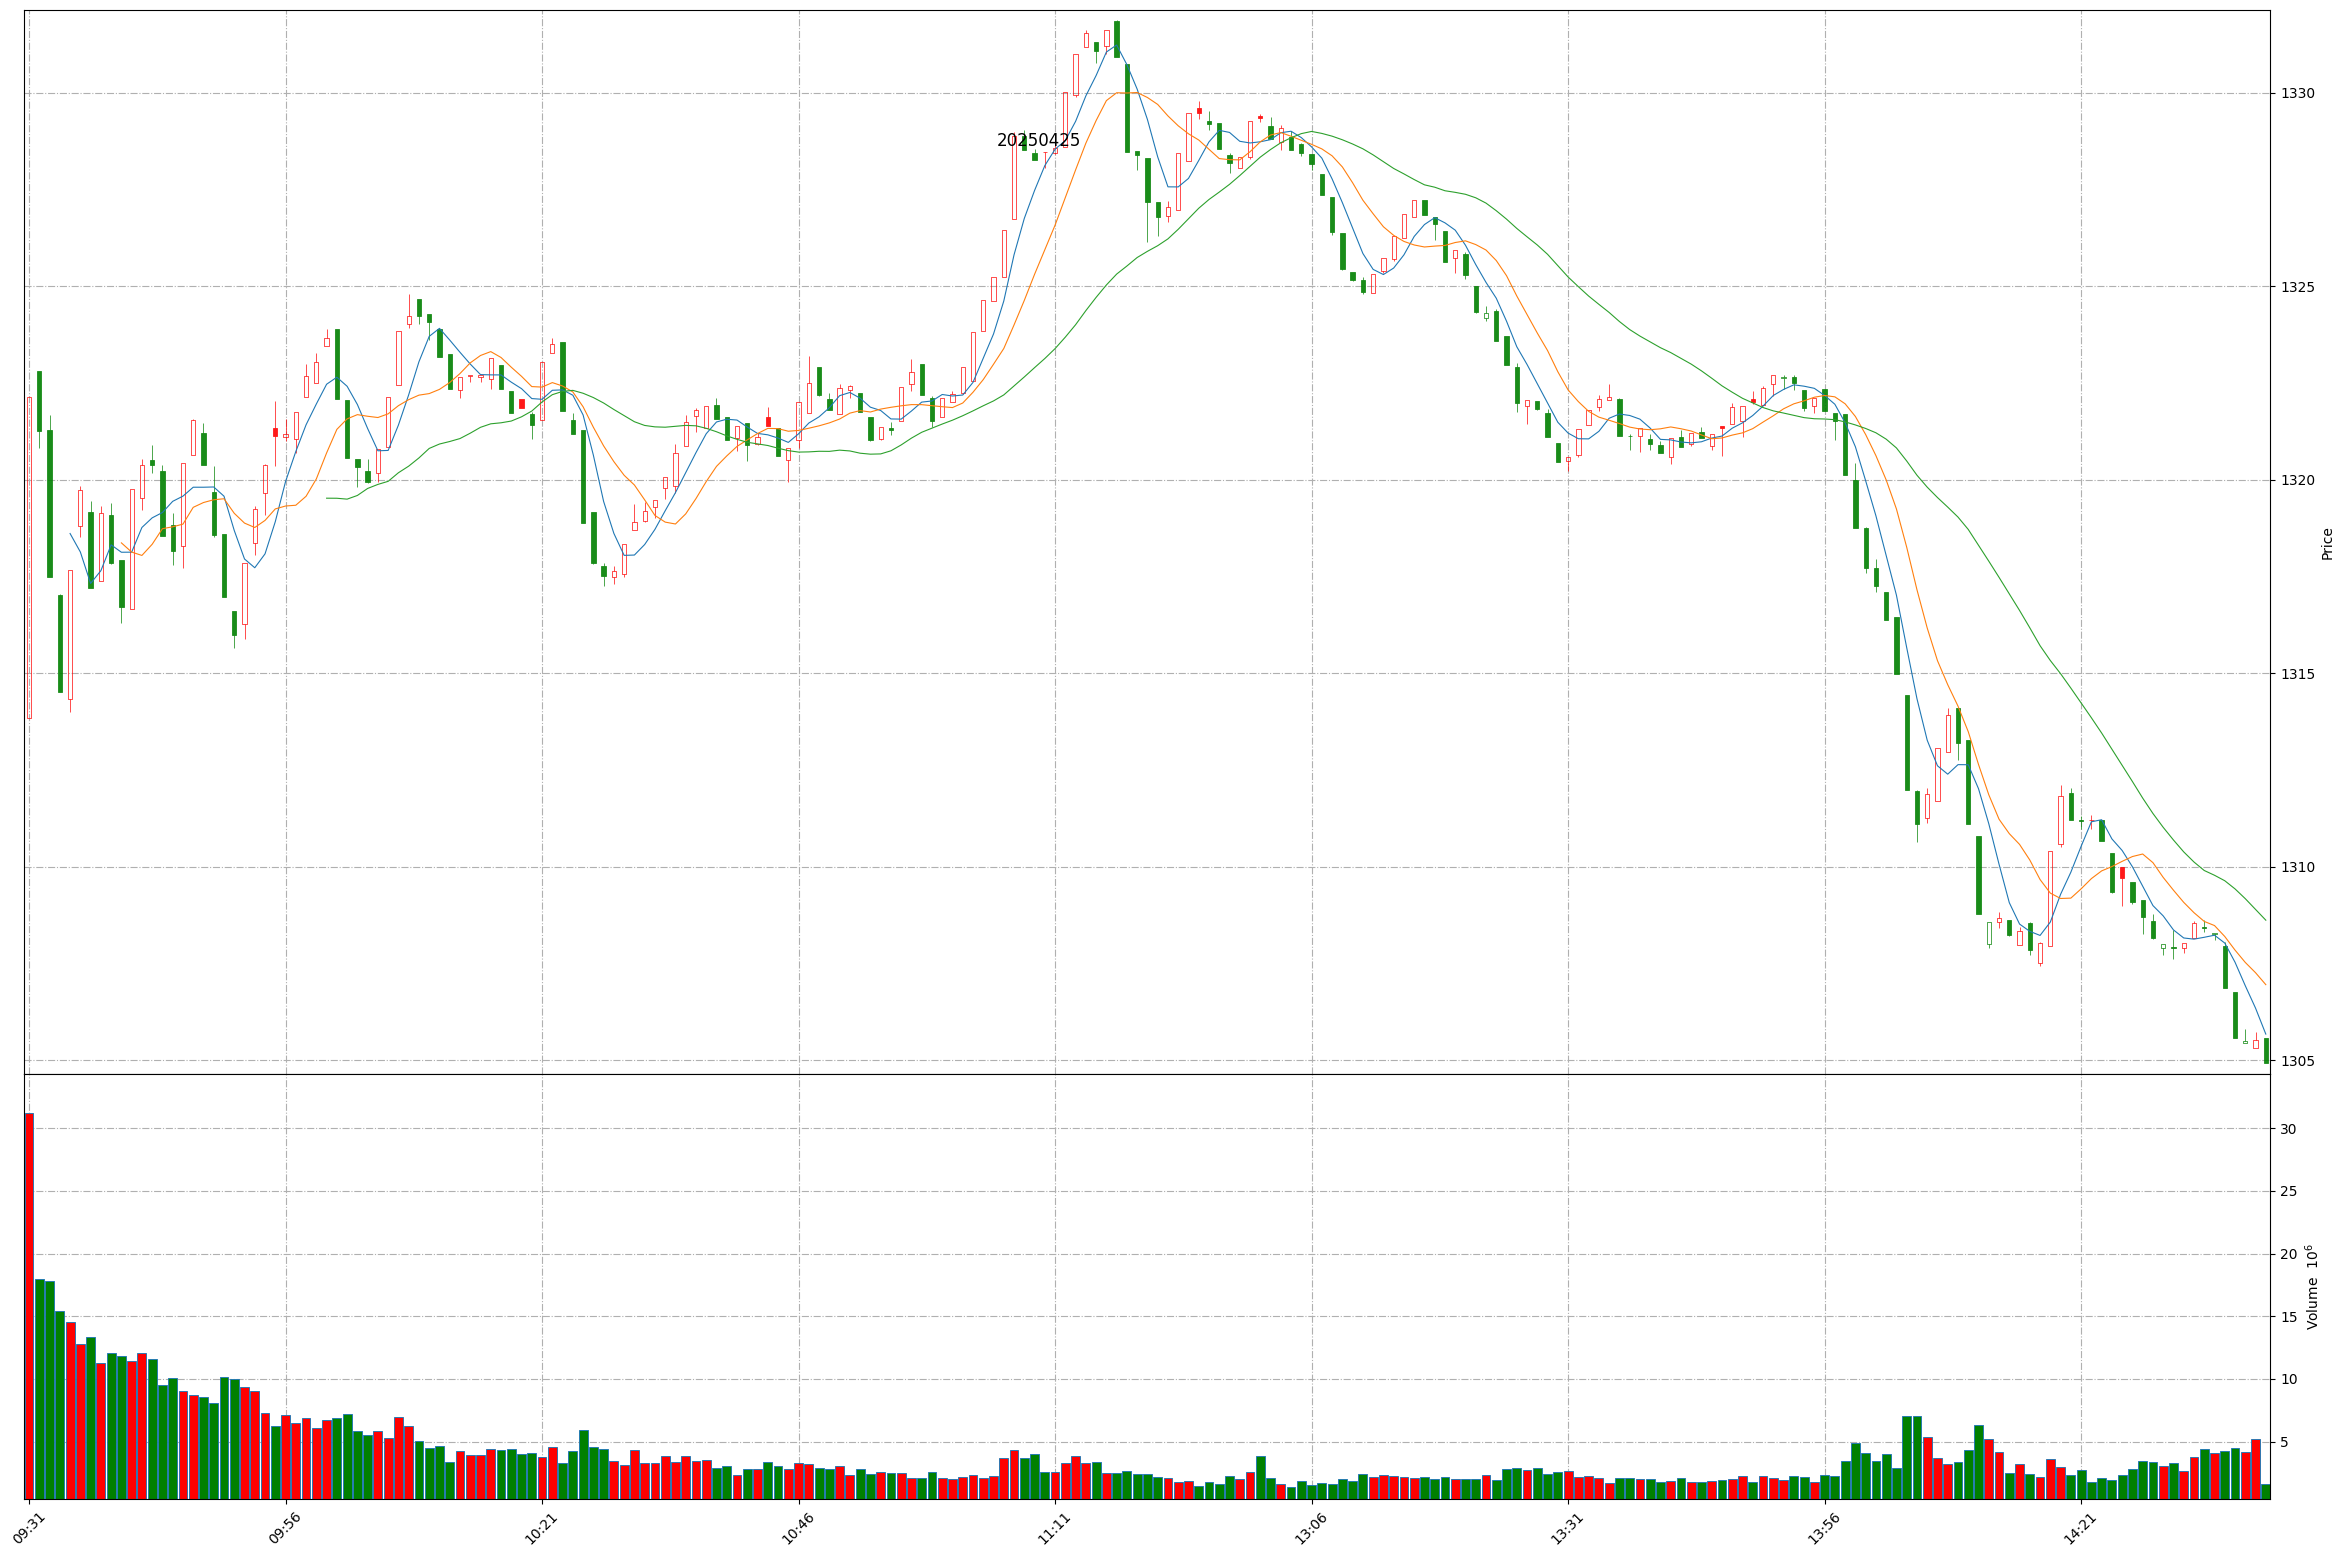
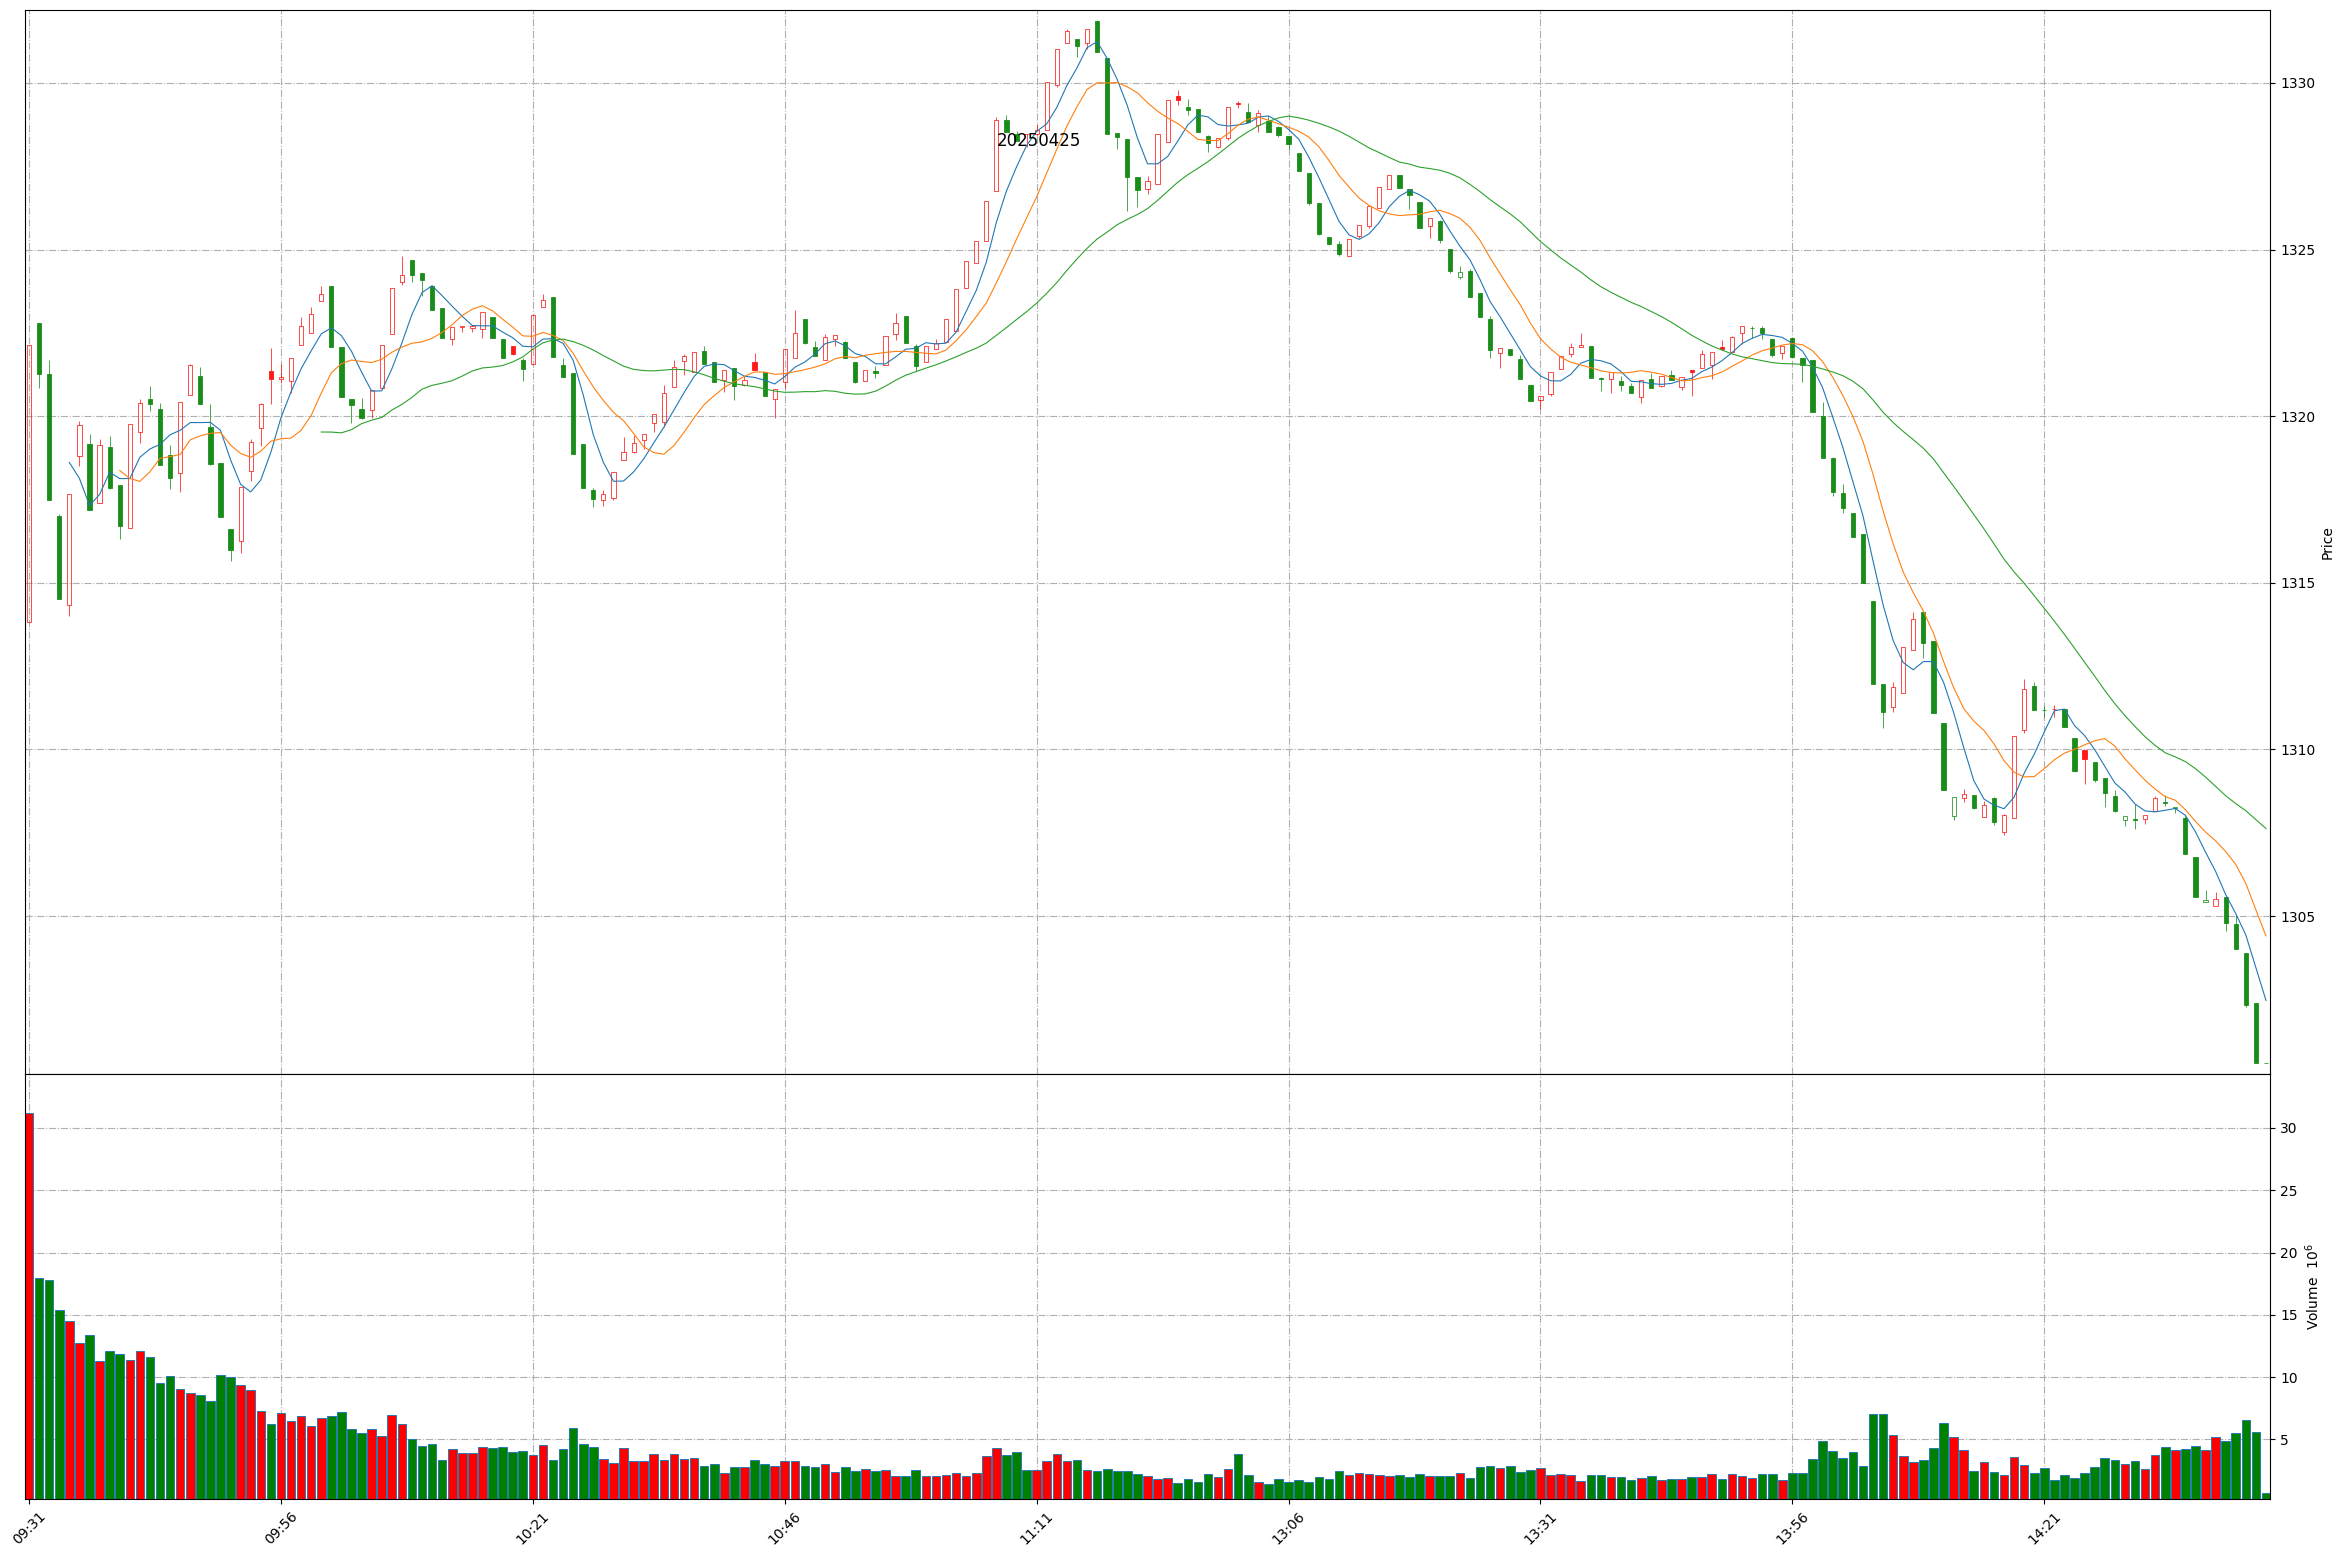
Github action update at 2025-04-25 14:42:24.

diff --git a/README.md b/README.md
@@ -1,11 +1,11 @@
 
 # Daily-A-share-market-quotes 每日 A 股指数（5min 更新）- 20250425
 
-### 上证指数 20250425 14:38
+### 上证指数 20250425 14:42
 ![](./fig/2025/4/20250425-sh000001.png)
 
-### 深证成指 20250425 14:38
+### 深证成指 20250425 14:42
 ![](./fig/2025/4/20250425-sz399001.png)
 
-### 北证50 20250425 14:38
+### 北证50 20250425 14:42
 ![](./fig/2025/4/20250425-bj899050.png)
